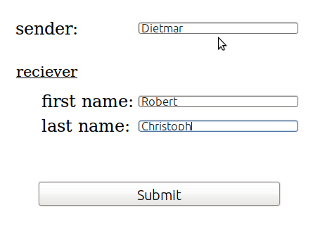
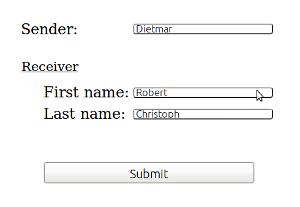
HowTo Create Template refectoring

diff --git a/expleo/app/views/Application/howto/createTemplate.html b/expleo/app/views/Application/howto/createTemplate.html
@@ -28,20 +28,23 @@
 	<h1>How to create templates</h1>
 </p>
 <p>
-	You can create templates by using plain text, latex or docx files. For substitution write %%. (eg. %%xyz%%, %%abc:xyz%%)
-	If you want to have cagetories use the example "%%abc:xyz%%".
+	You can create templates by using plain text, latex or docx files.
+	Terms which should be replaced in the template should be placed into %% tags. (eg. %%xyz%%, %%abc:xyz%%)
+	If you want to have categories use the example "%%abc:xyz%%".
+
+
 </p>
 <p>
-	example upload:
+	<h2 class="howto_h2">Example upload:</h2>
 	<pre>
-	Hello %%reciever:first name%% %%reciever:last name%%!
+	Hello %%Receiver:First name%% %%Receiver:Last name%%!
 
-	regards %%sender%%
+	regards %%Sender%%
 	</pre>
-	example formular:<br>
+	<h2 class="howto_h2">Example formular:<br></h2>
 	<img src="@{'/public/images/howto/example.png'}" />
 	<br>
-	example output:
+	<h2 class="howto_h2">Example output:</h2>
 	<pre>
 	Hello Robert Christoph!
 

diff --git a/expleo/app/views/Application/howto/overview.html b/expleo/app/views/Application/howto/overview.html
@@ -29,12 +29,12 @@
 			<td><a href="@{Application.renderHowToCreateTemplate()}">How to create templates</a></td>
 		</tr>
 		<tr>
-			<td><a href=""><img src="@{'/public/images/howto/CreateTemplate.png'}" /></a></td>
-			<td><a href="">Create</a></td>
+			<td><a href=""><img src="@{'/public/images/test_pic.jpg'}" /></a></td>
+			<td><a href="">How to upload a template</a></td>
 		</tr>
 		<tr>
-			<td><a href=""><img src="@{'/public/images/howto/CreateTemplate.png'}" /></a></td>
-			<td><a href="">Create</a></td>
+			<td><a href=""><img src="@{'/public/images/test_pic.jpg'}" /></a></td>
+			<td><a href="">How to use the system</a></td>
 		</tr>
 	</table>
 </div>

diff --git a/expleo/public/stylesheets/main.css b/expleo/public/stylesheets/main.css
@@ -388,3 +388,10 @@ h6 {
 	color: #9FB6CD;
 	font-size: 25px;
 }
+
+.howto_h2 {
+	color: #9FB6CD;
+	font-size: 18px;
+	text-decoration: underline;
+	padding-bottom: 3px;
+}
